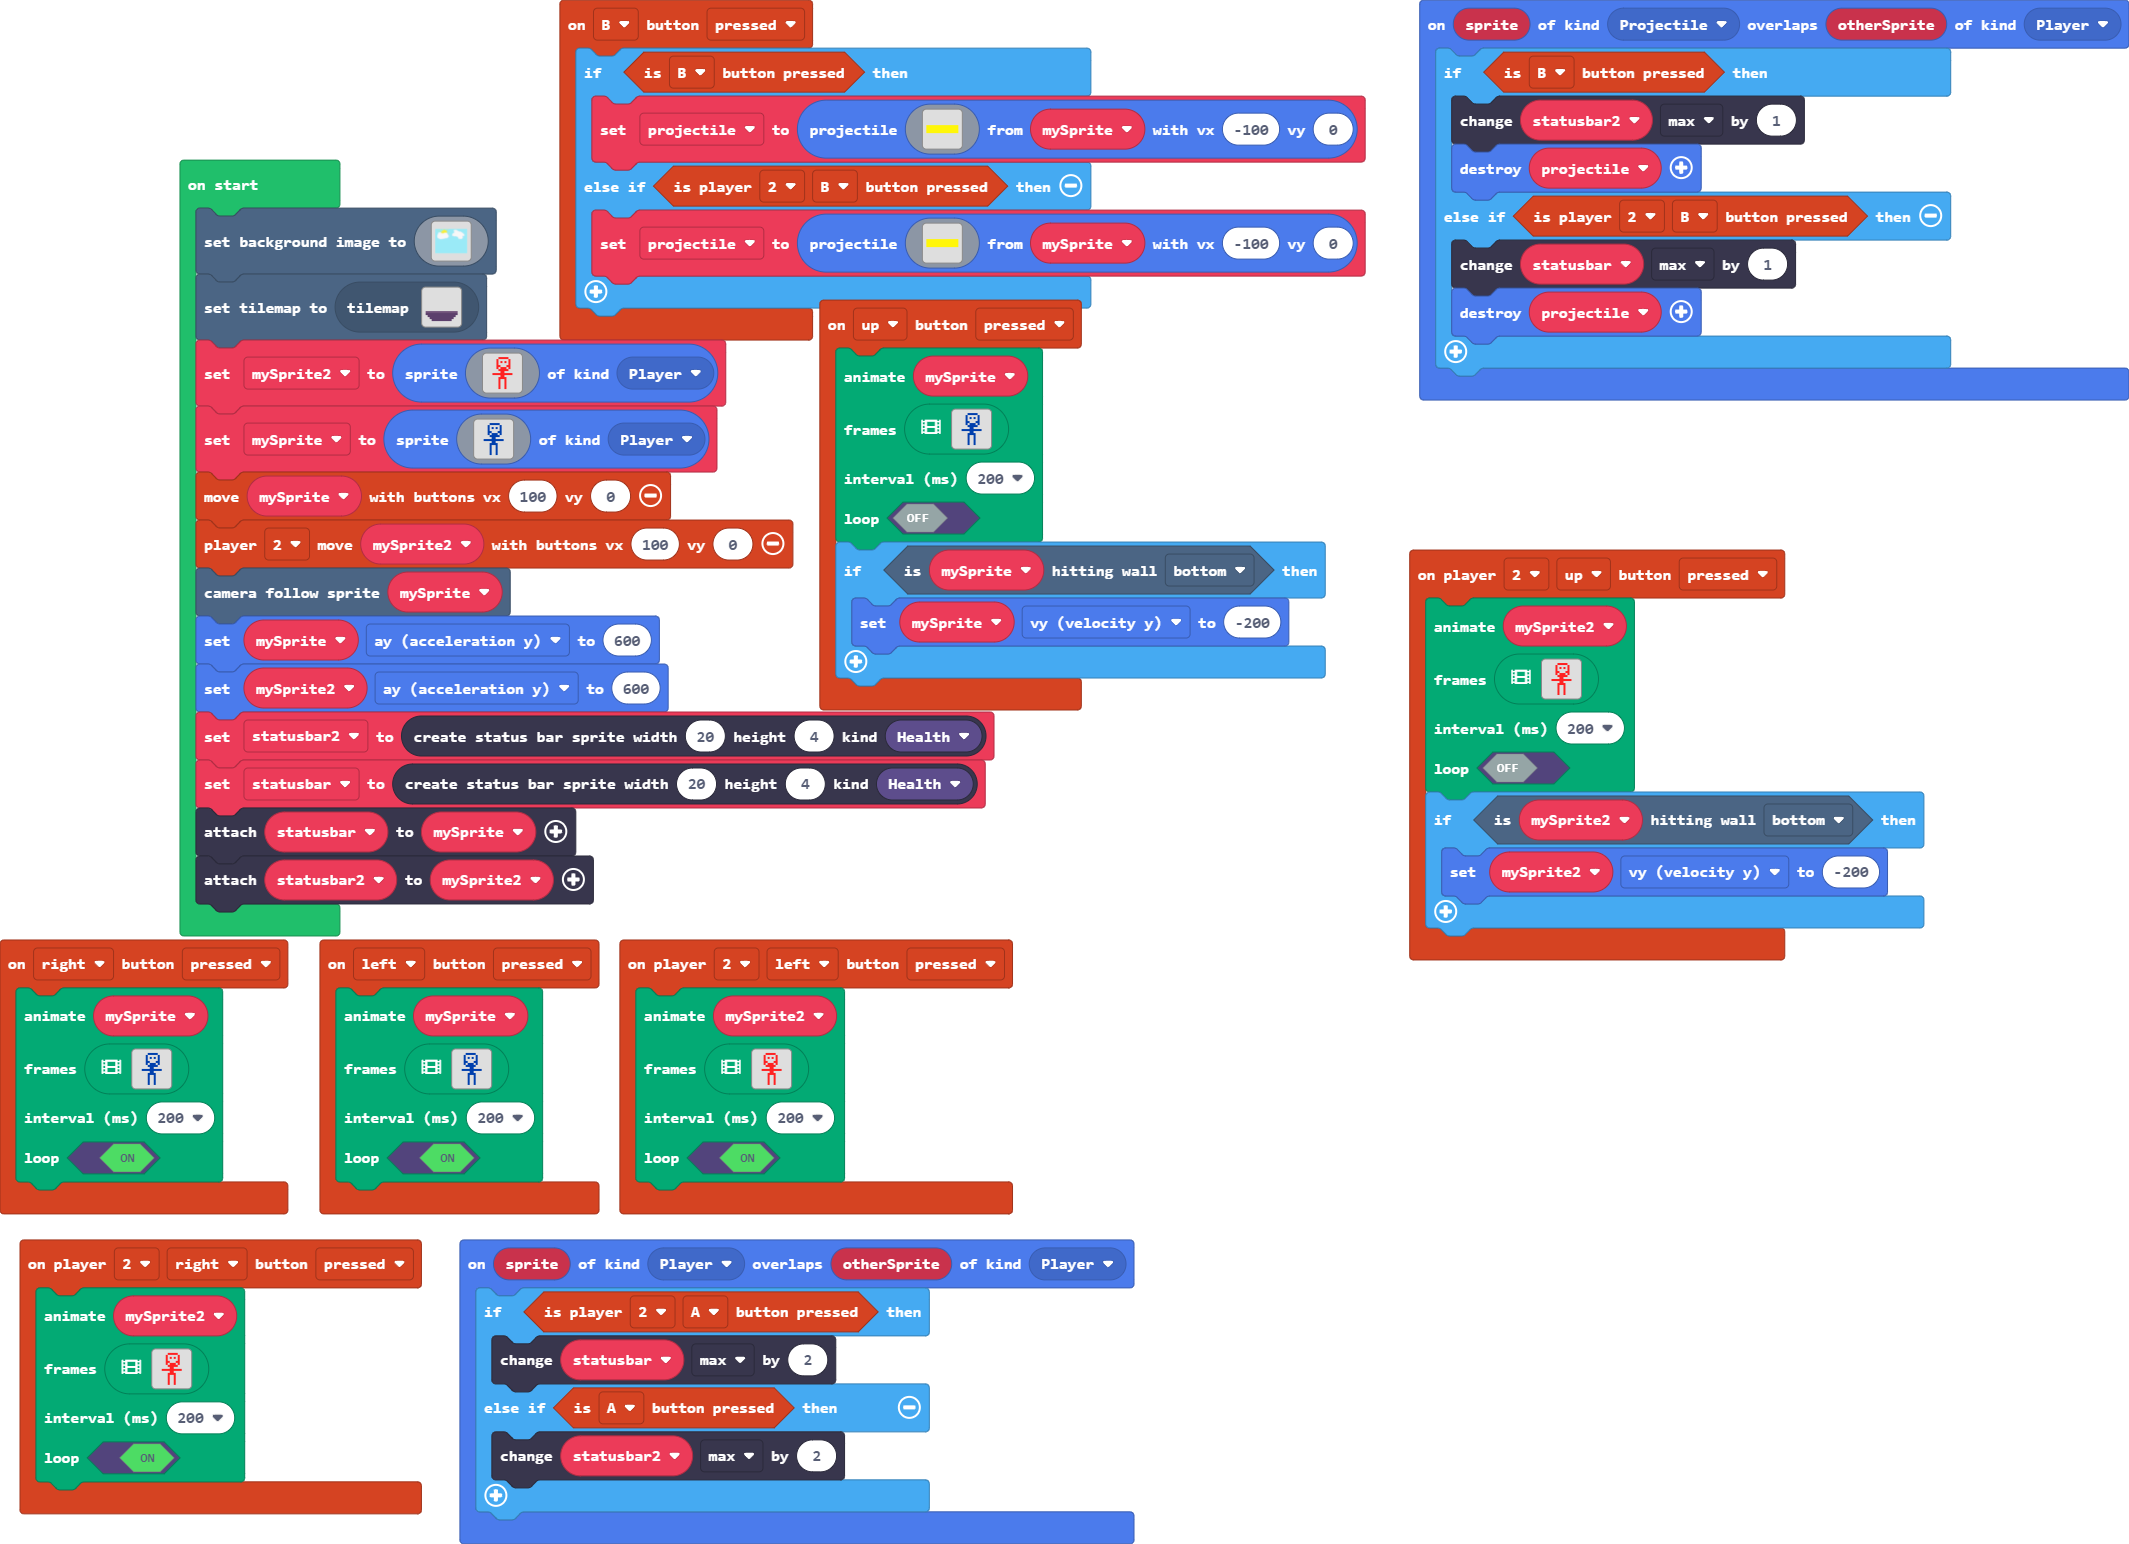
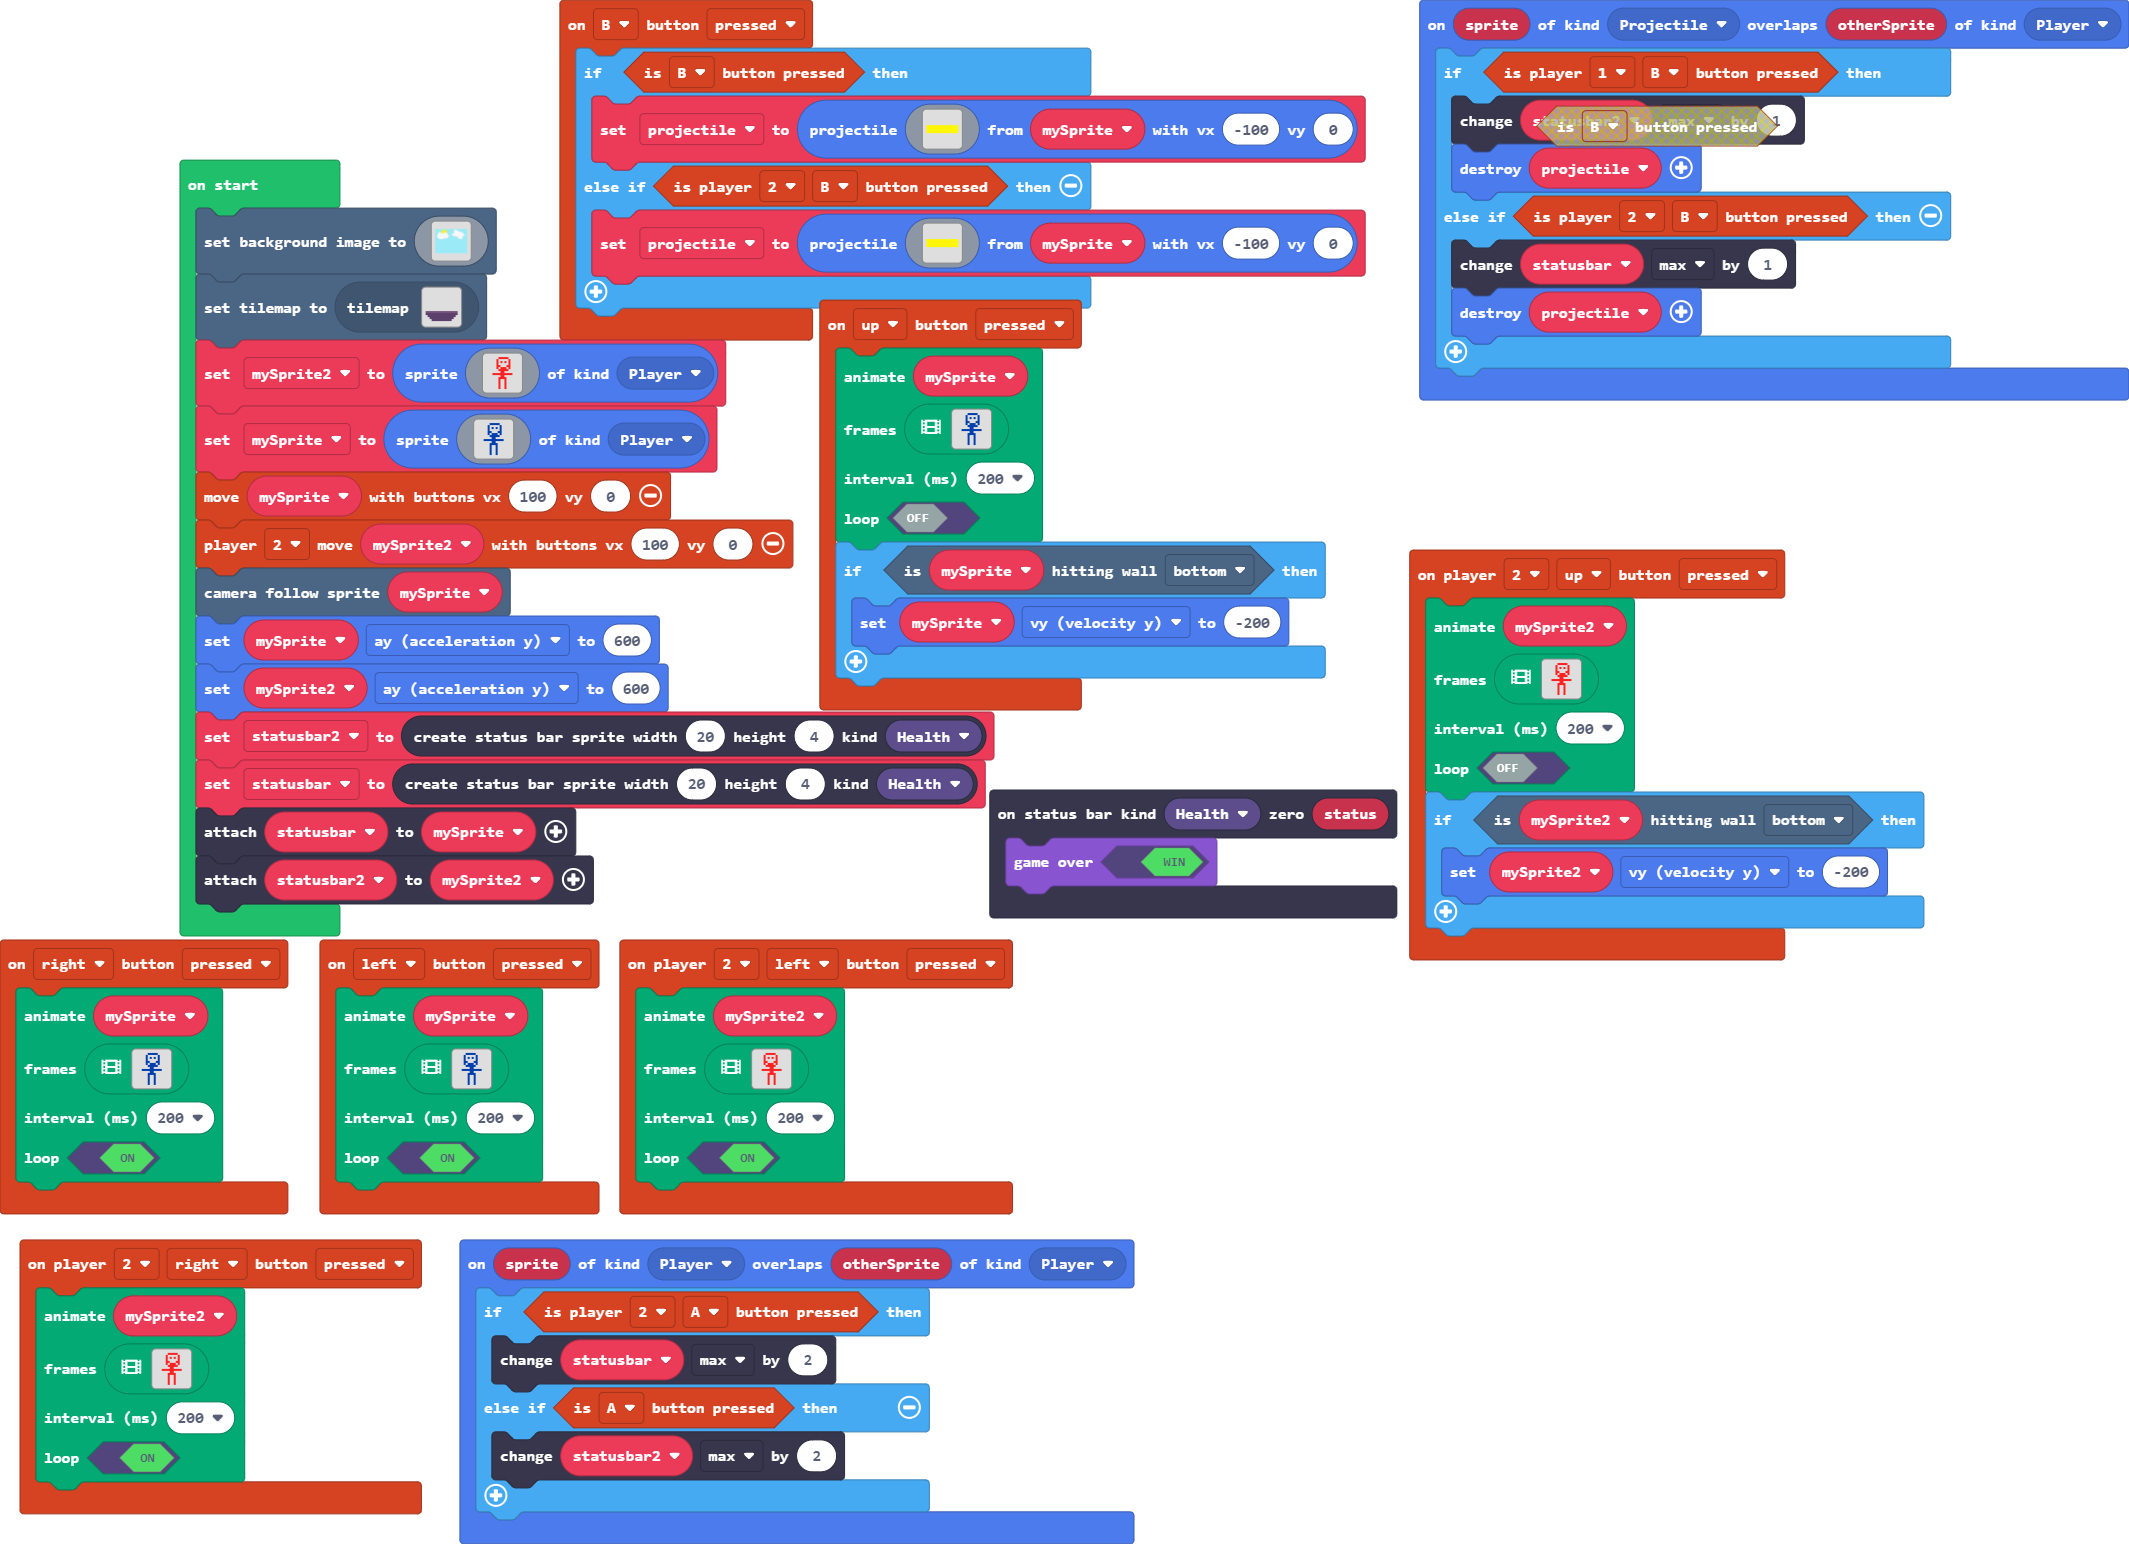
Update pxt.json, main.blocks, main.ts

Changed region(s): [[0.465, 0.4974, 0.682, 0.6218], [0.713, 0.0311, 0.868, 0.0933]]

diff --git a/main.ts b/main.ts
@@ -17,7 +17,7 @@ controller.B.onEvent(ControllerButtonEvent.Pressed, function () {
     }
 })
 sprites.onOverlap(SpriteKind.Projectile, SpriteKind.Player, function (sprite, otherSprite) {
-    if (controller.B.isPressed()) {
+    if (controller.player1.isPressed(ControllerButton.B)) {
         statusbar2.max += 1
         sprites.destroy(projectile)
     } else if (controller.player2.isPressed(ControllerButton.B)) {
@@ -43,6 +43,9 @@ controller.player2.onButtonEvent(ControllerButton.Up, ControllerButtonEvent.Pres
     if (mySprite2.isHittingTile(CollisionDirection.Bottom)) {
         mySprite2.vy = -200
     }
+})
+statusbars.onZero(StatusBarKind.Health, function (status) {
+    game.gameOver(true)
 })
 controller.right.onEvent(ControllerButtonEvent.Pressed, function () {
     animation.runImageAnimation(
